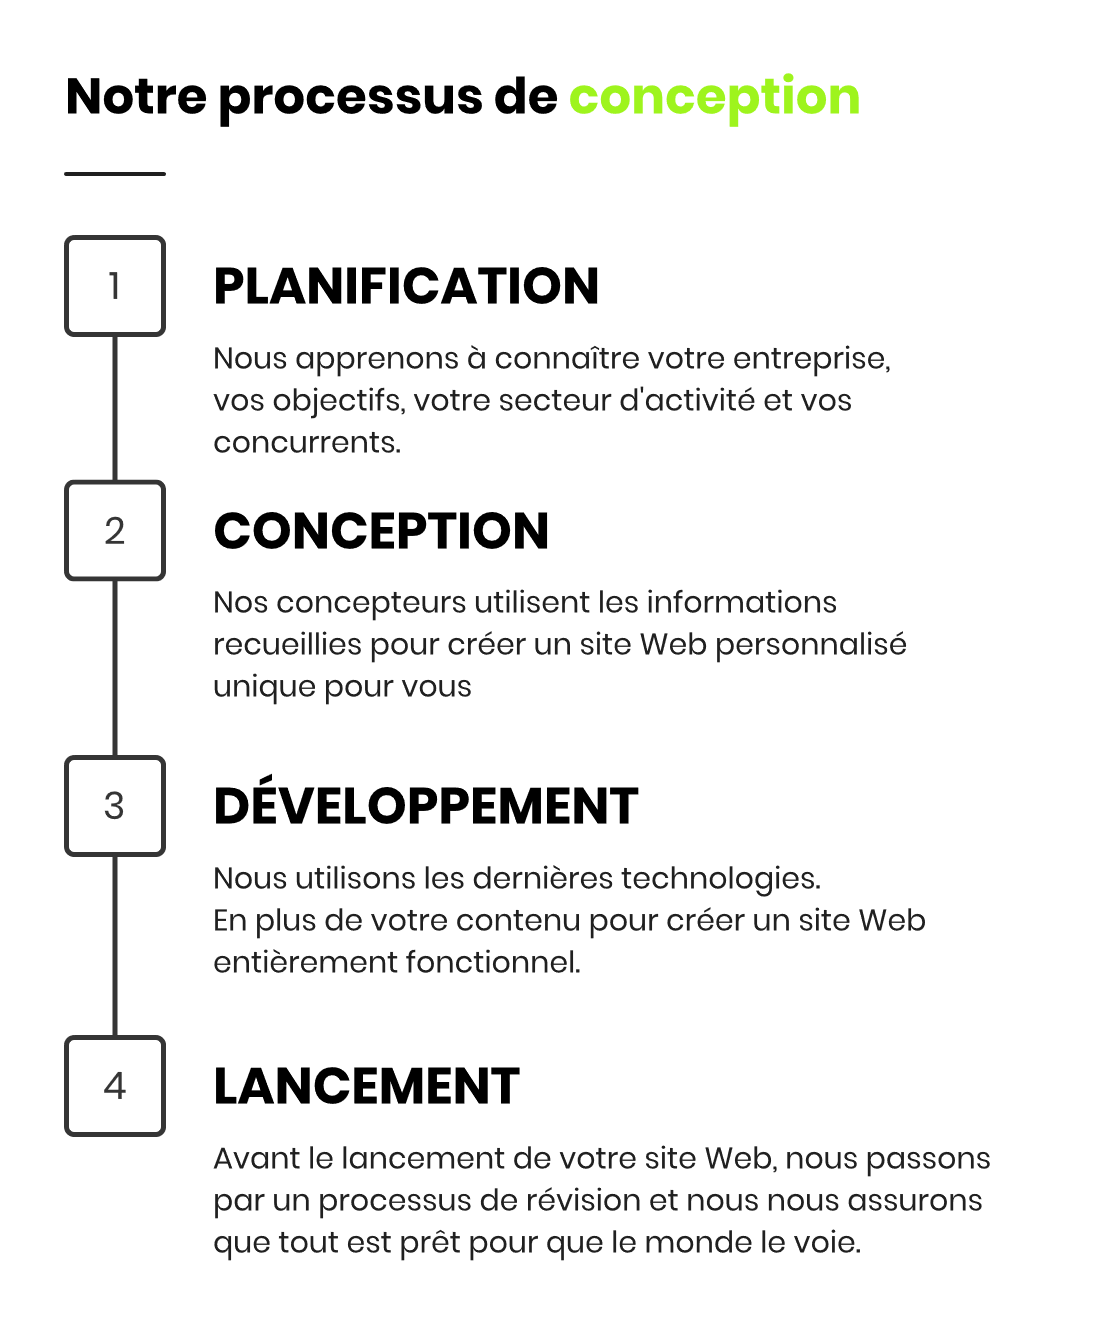
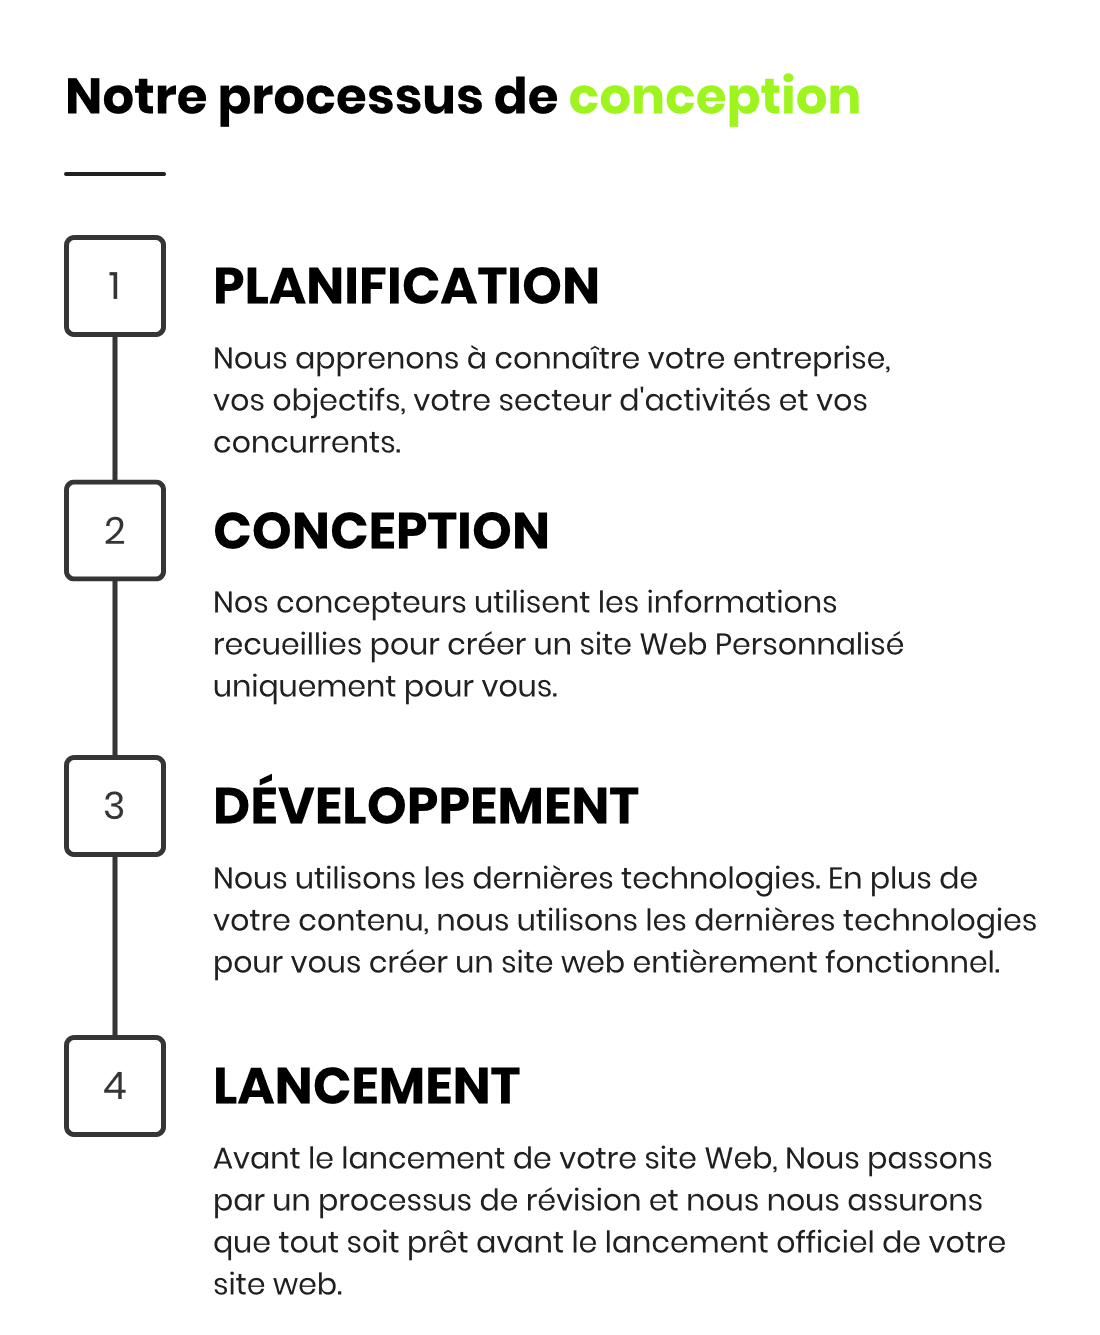
french version gramatical corrections made

diff --git a/pages/services.vue b/pages/services.vue
@@ -8,21 +8,21 @@
         <img style="width:50%;z-index:-2" src="~/assets/plus_line.svg" alt="plus">
 
               <div class="cards-holder">
-                <Card :red="true" :long="true" :iconData="'globe'" :titleData="'Conception de site'" :textData="'Web Comprendre le contenu et la structure est un aspect clé de la conception Web. Conception de site Web réactif - une conception qui s’adapte à chaque écran. Nous créons la meilleure conception de site Web; nous voulons que votre site Web attire plus de trafic.'"/>
-                <Card :purple="true" :long="true" :iconData="'lens'" :titleData="'Conception et développement de logiciels'" :textData="'Nous pouvons vous aider à concrétiser votre logiciel idéal. Nous intégrons les meilleurs logiciels pour faciliter l’édition par quiconque. Générez des rapports de données en un seul clic.'"/>
-                <Card :green="true" :long="true" :iconData="'mobile'" :titleData="'Développement d’applications mobiles/Web'" :textData="'Applications conviviales sur Android et iOS. Nous concevons des applications parfaites sur tous les types d’appareils. Applications Web dynamiques et conviviales.'"/>
+                <Card :red="true" :long="true" :iconData="'globe'" :titleData="'Conception de site Web'" :textData="'Comprendre le contenu et la structure est un aspect clé de la conception Web. Conception de site Web réactif - une conception qui s’adapte à chaque écran. Nous avons la meilleure conception de site Web; nous voulons que votre site Web attire plus de trafic.'"/>
+                <Card :purple="true" :long="true" :iconData="'lens'" :titleData="'Conception et développement de logiciels'" :textData="'Nous pouvons vous aider à concrétiser votre logiciel idéal. Nous intégrons les meilleurs logiciels pour faciliter l’édition. Générez des rapports de données en un seul clic.'"/>
+                <Card :green="true" :long="true" :iconData="'mobile'" :titleData="'Développement d’applications mobiles/Web'" :textData="'Applications Web et mobiles conviviales. Nous concevons des applications parfaites, pour tous types d’appareils: Android et iOS.'"/>
 
-                <Card :green="true" :long="true" :iconData="'card'" :titleData="'Rentable'" :textData="'Nous offrons des solutions haut de gamme et sommes accessibles aux propriétaires de petites et moyennes entreprises à des tarifs abordables. Contactez-nous pour un devis gratuit sur votre prochain projet.'"/>
-                <Card :red="true" :long="true" :iconData="'film'" :titleData="'Production vidéo'" :textData="'Nous affichons la mission de votre entreprise ou de votre organisation à but non lucratif et faisons la promotion de produits et d’idées avec des vidéos animées.'"/>
+                <Card :green="true" :long="true" :iconData="'card'" :titleData="'Rentable'" :textData="'Nous offrons des solutions haut de gamme et à des tarifs abordables. Nous sommes accessibles aux propriétaires de petites et moyennes entreprises. Contactez-nous pour un devis gratuit sur votre prochain projet.'"/>
+                <Card :red="true" :long="true" :iconData="'film'" :titleData="'Production vidéo'" :textData="'Nous affichons la mission de votre entreprise ou de votre organisation à but non lucratif et faisons la promotion de produits et d’idées avec des vidéos ou animations.'"/>
 
                 <Card :purple="true" :long="true" :iconData="'cart'" :titleData="'Commerce électronique'" :textData="'Notre solution est conçue pour faciliter le processus de gestion et d’exploitation de votre boutique en ligne.'"/>
                 <Card :red="true" :long="true" :iconData="'award'" :titleData="'Développement et maintenance du site Web'" :textData="'Si votre site Web est obsolète et ne prend plus en charge votre marque, nous vous aiderons ! Une surveillance régulière de votre site Web est indispensable au bon fonctionnement de votre entreprise.'"/>
                 <Card :purple="true" :long="true" :iconData="'face'" :titleData="'Image de marque et conception de logo'" :textData="'Nous nous engageons à fournir des designs 100% uniques et innovants à nos clients. Notre logo personnalisé vous aidera sûrement à trouver une identité commerciale réussie sur le marché.'"/>
 
                 <Card :green="true" :long="true" :iconData="'layout'" :titleData="'Interfaces simples'" :textData="'Nos solutions sont simples à appliquer. Tout ce dont vous avez besoin est un accès à Internet, vous permettant d’apporter des modifications où que vous soyez.'"/>
-                <Card :green="true" :long="true" :iconData="'heart'" :titleData="'Marketing des médias sociaux'" :textData="'Notre équipe conçoit et développe des campagnes de médias sociaux efficaces et engageantes pour nos clients afin de promouvoir leur entreprise et d’atteindre leur public cible.'"/>
-                <Card :red="true" :long="true" :iconData="'chart'" :titleData="'Marketing de contenu'" :textData="'Nous utilisons une approche collaborative pour la création de contenu et le marketing. Nous respectons vos idées tout en déployant simultanément votre contenu pour répondre au marché cible.'"/>
-                <Card :purple="true" :long="true" :iconData="'flash'" :titleData="'Assistance informatique à distance'" :textData="'Nous soumettons les systèmes informatiques de votre entreprise à vos besoins en fournissant et en appliquant les meilleures solutions de maintenance. Ainsi, vous pouvez vous concentrer sur ce que vous faites le mieux.'"/>
+                <Card :green="true" :long="true" :iconData="'heart'" :titleData="'Marketing des médias sociaux'" :textData="'Notre équipe conçoit et développe des campagnes de médias sociaux efficaces et engageantes pour nos clients, afin qu’ils promeuvent leur entreprise et atteignent leur audience cible.'"/>
+                <Card :red="true" :long="true" :iconData="'chart'" :titleData="'Marketing de contenu'" :textData="'Nous avons une approche collaborative pour la création de contenu et de marketing. Nous respectons vos idées, tout en déployant simultanément votre contenu, pour répondre au marché cible.'"/>
+                <Card :purple="true" :long="true" :iconData="'flash'" :titleData="'Assistance informatique à distance'" :textData="'Nous adaptons les systèmes informatiques de votre entreprise selon vos besoins, en fournissant et en appliquant les meilleures solutions de maintenance. Ainsi, vous pouvez vous concentrer sur ce que vous faites le mieux.'"/>
                 
         </div>
 

diff --git a/components/HeroAltFr.vue b/components/HeroAltFr.vue
@@ -17,7 +17,7 @@
             
             <section class="text-place gradient-text">
                 <p style="font-style:italic">
-                Faites la promotion de votre produit ou de votre idée avec des vidéos animées !
+                Faites la promotion de vos produits et services en vidéo !
                 </p>
             </section>
 
@@ -35,7 +35,7 @@
         that will exceed your expectations so far</p> -->
 
         <h1 class="text-slogan">
-            "Des solutions <strong>Web</strong> complètes pour aider votre entreprise à se <strong>developer</strong>"
+            “ Des solutions <strong>Web</strong> complètes pour d’aider votre entreprise à se <strong>développer</strong> ”
             <!-- "Full-service <strong>Web</strong> solutions to help your business<strong> grow</strong>" -->
         </h1>
 
@@ -64,7 +64,9 @@
                 
 
                 <h2 class="gradient-text" style="margin-top:20px">
-                Nous sommes fiers de guider nos clients vers le succès - et de créer des solutions intelligentes qui minimisent les risques et maximisent les récompenses.
+                Nous sommes fiers de pouvoir guider nos clients vers le succès
+                avec des solutions qui visent à minimiser les risques et maximiser
+                les récompenses.
                 </h2>
             </div>
             </div>
@@ -74,15 +76,15 @@
 
         <div class="mid-card gradi">
 
-            <p class="subtitle" style="font-size:30px;text-align: start;max-width: 100%;font-family: 'Berkshire Swash', cursive;">
-                Nous croyons au développement de solutions qui vous rapportent de l'argent tout en vous faisant économiser de l'argent. Nous faisons donc le travail correctement dès le départ.
+            <p class="subtitle" style="font-size:30px;text-align: start;min-width: 100%;font-family: 'Berkshire Swash', cursive;">
+                Nous élaborons des solutions qui vous apportent de l'argent et non qui vous en fait perdre. Nous faisons donc notre travail correctement, dès le départ.
             </p>
 
             <div class="cards-holder">
 
                 <Card :red="true" :iconData="'people'" :titleData="'Expertise informatique'" :textData="'Nous avons plus de 30 professionnels formés dans une gamme de domaines technologiques. Notre objectif est simple, vous offrir la meilleure expérience possible.'"/>
-                <Card :purple="true" :iconData="'clock'" :titleData="'Assistance 24h/7'" :textData="'Nous fournissons une assistance 24h/24 et 7j/7 à tous nos précieux clients. Si vous avez des questions ou rencontrez des problèmes, nous vous répondrons dans les 30 minutes.'"/>
-                <Card :green="true" :iconData="'card'" :titleData="'Abordable'" :textData="'Nos services sont abordables et adaptés à votre budget. Nous ne surchargeons pas nos précieux clients.'"/>
+                <Card :purple="true" :iconData="'clock'" :titleData="'Assistance 24h/7'" :textData="'Nous offrons notre assistance 24h/24 et 7j/7 à tous nos précieux clients. Si vous avez des questions ou rencontrez des problèmes, nous vous répondrons dans un délai de 30 minutes.'"/>
+                <Card :green="true" :iconData="'card'" :titleData="'Abordable'" :textData="'Nos services sont abordables et adaptés à votre budget. Nous ne vous surchargons pas.'"/>
 
             <!-- <div class="thecard">
                 <div class="thefront">
@@ -205,12 +207,11 @@
     <div class="mid-card grey">
         <img src="~/assets/corner_design.svg" alt="corner">
         <p class="subtitle"  style="color: white;">
-        Nous avons les <strong>ressources, la vision</strong> et <strong>l'expérience</strong> nécessaires pour
-        concevoir n'importe quel site Web pour n'importe quelle entreprise avec
-        <strong>intégrité</strong> et style. <strong>Notre équipe de concepteurs Web de haut</strong> niveau
-        fournit des solutions de conception efficaces avec des fonctionnalités
-        <strong>attrayantes et fonctionnelles.</strong> Ceux-ci répondront à la fois à vos soucis de
-        budget et de délais.
+        Nous avons les <strong>ressources, la vision</strong> et <strong>l'expérience</strong> nécessaires pour 
+        concevoir n'importe quel site web, pour n’importe quelle entreprise <br> ayant de
+        l’intégrité et du style. <strong>Notre équipe de haut</strong> niveau fournit <br> des solutions de
+        conceptions efficaces, ayant des fonctionnalités <strong>attrayantes et fonctionnelles.</strong>
+        Celles-ci seront adaptées à votre <br> budget et vos délais.
     </p>
     </div>
 

diff --git a/pages/about.vue b/pages/about.vue
@@ -12,7 +12,7 @@
 
 
                 <div class="line-box">
-                    <p style="text-align: start;font-size: x-large;"><strong>JUS Multi Creation est une entreprise de solutions Web à service complet de confiance basée au Canada.</strong>
+                    <p style="text-align: start;font-size: x-large;"><strong>JUS Multi Creation est une entreprise canadienne de solutions Web, offrant des services digne de confiance.</strong>
                     <br><br>
                     - Nous fournissons une gamme de services
                     personnalisés, y compris la conception de sites
@@ -20,23 +20,23 @@
                     d'applications, des vidéos d'animation et la
                     conception graphique, nous faisons à peu près tout.
                     <br><br>
-                    - Notre équipe d'experts de haut niveau propose
-                    des solutions de conception efficaces,
-                    attrayantes, fonctionnelles et pouvant répondre à
-                    la fois à vos préoccupations de budget et de délai.
-                    Nous sommes là pour vous aider à franchir la
-                    prochaine étape vers votre objectif !
+                    - Notre équipe d'experts de haut niveau propose des
+                    solutions de conception efficaces, attrayantes et
+                    fonctionnelles, pouvant répondre à la fois à vos
+                    préoccupations de budget et de délais. Nous
+                    sommes là pour vous aider à franchir la prochaine
+                    étape vers votre objectif !
                     <br><br>
-                    <strong>JUS Multi Création s'engage à fournir des
-                    solutions rentables et concentre ses services
-                    sur les organismes communautaires et les
-                    nouveaux entrepreneurs.</strong><br><br>
-                    - Nous trouvons des moyens de rendre vos
-                    objectifs atteignables, gérables et percutants.<br><br>
-                    - Notre prestation de services, notre service client
-                    et notre politique d'entreprise visent à vous offrir
-                    la meilleure expérience possible. N'hésitez pas à
-                    nous contacter, nous serons heureux de vous
+                    <strong>JUS Multi Création s'engage à fournir des solutions
+                    rentables et concentre ses services sur les
+                    organismes communautaires et les nouveaux
+                    entrepreneurs.</strong><br><br>
+                    - Nous trouvons des moyens de rendre vos objectifs
+                    atteignables, gérables et percutants.<br><br>
+                    - Nos prestations de services, nos services à la
+                    clientèle et notre politique d'entreprise visent à vous
+                    offrir la meilleure expérience possible. N'hésitez pas
+                    à nous contacter, nous serons heureux de vous
                     aider de toutes les manières possibles.
                     </p>
                 </div>
@@ -64,9 +64,8 @@
             <div class="card">
                 <img src="~/assets/icons/bulb.svg" alt="flash">
                 <h2>Services aux entreprises créatives</h2>
-                <p>Nous connaissons le design. Notre équipe créera
-                un design unique basé sur votre vision et votre
-                direction.</p>
+                <p>Nous connaissons le design. Notre équipe
+                créera un design unique, suivant votre vision et votre direction.</p>
             </div>
 
             <div class="card">

diff --git a/components/ScrollText.vue b/components/ScrollText.vue
@@ -1,7 +1,7 @@
 <template>
     <div id="scroll-container">
-        <div id="scroll-text" v-if="isFr"><p>Construire les sites Web et les applications dont vous avez toujours rêvé. Nous créons des sites Web professionnels, beaux et uniques pour les petites et grandes entreprises.</p><div></div></div>
-        <div id="scroll-text" v-else ><p>Building the <strong>Websites</strong>  & <strong>Apps</strong>, You've Always <strong>Dreamed</strong> of. We create <strong>professional, beautiful</strong> and <strong>unique</strong> website designs for small to large businesses.</p><div></div></div>
+        <div id="scroll-text" v-if="isFr"><p>Construisons ensemble les sites Web et les applications dont vous avez toujours rêvé. Nous créons des sites Web professionnels, beaux et uniques pour les petites et grandes entreprises.</p><div></div></div>
+        <div id="scroll-text" v-else ><p>Building the <strong>Websites</strong>  & <strong>Apps</strong>, You have Always <strong>Dreamed</strong> of. We create <strong>professional, beautiful</strong> and <strong>unique</strong> website designs for small to large businesses.</p><div></div></div>
     </div>
 </template>
 
@@ -29,7 +29,7 @@ export default {
   -moz-transform: translateX(100%);
   -webkit-transform: translateX(100%);
   transform: translateX(100%);
-  min-width: 2100px;
+  min-width: 2300px;
   -moz-animation: my-animation 45s linear infinite;
   -webkit-animation: my-animation 45s linear infinite;
   animation: my-animation 45s linear infinite;

diff --git a/components/NavBarAlt.vue b/components/NavBarAlt.vue
@@ -20,7 +20,7 @@
           </div>
           <div class="nav-buttons">
               <button v-on:click="goto('/contact')" >Devis gratuit</button>
-              <a href="/indexen"><strong>Fr</strong> / En</a>
+              <a href="/indexen"><img src="~/assets/icons/language-solid.svg" alt="lang" width="28">English</a>
           </div>
       </div>
       </div>
@@ -52,7 +52,7 @@
           </div>
           <div class="nav-buttons">
               <button v-on:click="goto('/contacten')" >Free Quote</button>
-              <a href="/">Fr / <strong>En</strong> </a>
+              <a href="/"> <img src="~/assets/icons/language-solid.svg" alt="lang" width="28"> Français</a>
           </div>
       </div>
       </div>
@@ -112,7 +112,11 @@ export default {
     margin-left: 10px;
     border: 1.5px solid #12AAF3;
     border-radius: 5px;
-    padding: 5px;
+    padding: 7px 5px;
+    display: flex;
+    justify-content: space-between;
+    align-items: center;
+    width: 120px;
 }
 
 .nav-buttons a strong{
@@ -137,7 +141,7 @@ export default {
     justify-content: space-between;
     align-items: center;
     width: 100%;
-    max-width: 1100px;
+    max-width: 1300px;
 }
 .info-bar-alt p{
     color: #435264;
@@ -215,7 +219,7 @@ height: 90px;
     padding: 10px;
     display: flex;
     width: 100vw;
-    max-width: 1100px;
+    max-width: 1300px;
     justify-content: space-between;
     align-items: center;
 }

diff --git a/pages/contact.vue b/pages/contact.vue
@@ -14,7 +14,7 @@
         <img class="cover-image" src="~/assets/gatineau.jpg" alt="">
 
         <div class="about-container-sub" >
-        <lottie-player src="https://assets1.lottiefiles.com/packages/lf20_8tmvgkde.json"  background="transparent"  speed="1"  style="width:300px"  loop autoplay></lottie-player>
+        <lottie-player src="https://assets1.lottiefiles.com/packages/lf20_8tmvgkde.json"  background="transparent"  speed="1"  style="width:500px"  loop autoplay></lottie-player>
         <p style="margin-top:20px;font-size:x-large;color:#000;padding:30px">Vous avez un projet en tête dont vous souhaitez discuter avec notre expert ? <br> N'hésitez pas à nous joindre : <strong>+1 (514) 292-3162</strong> <br><br> Si vous ne parvenez pas à nous appeler, vous pouvez remplir le formulaire ci-dessous. <br> Nous vous contacterons dès que possible.</p>
 
         </div>

diff --git a/pages/contacten.vue b/pages/contacten.vue
@@ -14,7 +14,7 @@
         <img class="cover-image" src="~/assets/gatineau.jpg" alt="">
 
         <div class="about-container-sub" >
-        <lottie-player src="https://assets1.lottiefiles.com/packages/lf20_8tmvgkde.json"  background="transparent"  speed="1"  style="width:300px"  loop autoplay></lottie-player>
+        <lottie-player src="https://assets1.lottiefiles.com/packages/lf20_8tmvgkde.json"  background="transparent"  speed="1"  style="width:500px"  loop autoplay></lottie-player>
         <p style="margin-top:20px;font-size:x-large;color:#000;padding:30px">Do you have a project in mind you wish to discuss with our expert? <br> Feel free to reach out to us: <strong>+1 (514) 292-3162</strong> <br><br> If you are unable to call us, you can fill out the form below. <br> We will get in touch with you as soon as possible.</p>
 
         </div>

diff --git a/components/ContactForm.vue b/components/ContactForm.vue
@@ -19,7 +19,7 @@
       <textarea name="message" v-model="message"></textarea>
     </label>
     <h3 v-if="errormsg" class="error-message">{{errormsg}}</h3>
-    <button type="submit">Soumettre</button>
+    <button type="submit" style="font-size:x-large">Soumettre</button>
   </form>
   </div>
 <!-- ENGLISH -->
@@ -42,7 +42,7 @@
       <textarea name="message" v-model="message"></textarea>
     </label>
     <h3 v-if="errormsg" class="error-message">{{errormsg}}</h3>
-    <button type="submit">Submit</button>
+    <button type="submit" style="font-size:x-large">Submit</button>
   </form>
   </div>
 </template>

diff --git a/pages/index.vue b/pages/index.vue
@@ -2,7 +2,7 @@
   <div>
     <NavBarAlt :isFr="true"/>
     <HeroAltFr/>
-    <Footer :textData="'Une fois votre site Web lancé, nous pouvons continuer à nous en occuper. Notre plan de maintenance vous permet de nous envoyer du nouveau contenu et des images ou de demander des changements de mise en page à tout moment.'"/>
+    <Footer :textData="'Une fois votre site Web lancé, nous pouvons continuer à nous en occuper. Notre plan de maintenance vous permettra de nous envoyer du nouveau contenu, des images ou faire des demandes de changements de mise en page, à tout moment.'"/>
   </div>
 </template>
 

diff --git a/pages/abouten.vue b/pages/abouten.vue
@@ -51,7 +51,7 @@
             <div class="card">
                 <img src="~/assets/icons/face.svg" alt="flash">
                 <h2>Friendly Support</h2>
-                <p>We have a passion for design, and we love what we do and we know you’ll enjoy working with us.</p>
+                <p>We have a passion for design, we love what we do and we know you will enjoy working with us.</p>
             </div>
 
             <div class="card">

diff --git a/components/HeroAlt.vue b/components/HeroAlt.vue
@@ -17,7 +17,7 @@
             
             <section class="text-place gradient-text">
                 <p style="font-style:italic">
-                Promote your product or idea with animated videos!
+                Promote your product and idea with animated videos!
                 </p>
             </section>
 

diff --git a/assets/main.css b/assets/main.css
@@ -126,7 +126,7 @@ h1 strong{
 .card{
   display: flex;
   flex-flow: column;
-  justify-content: space-around;
+  /* justify-content: space-around; */
   align-items: center;
   width: 300px;
   height: 350px;
@@ -149,6 +149,7 @@ h1 strong{
 }
 .card img{
   width: 50px;
+  margin-bottom: 10px;
 }
 
 .card p{
